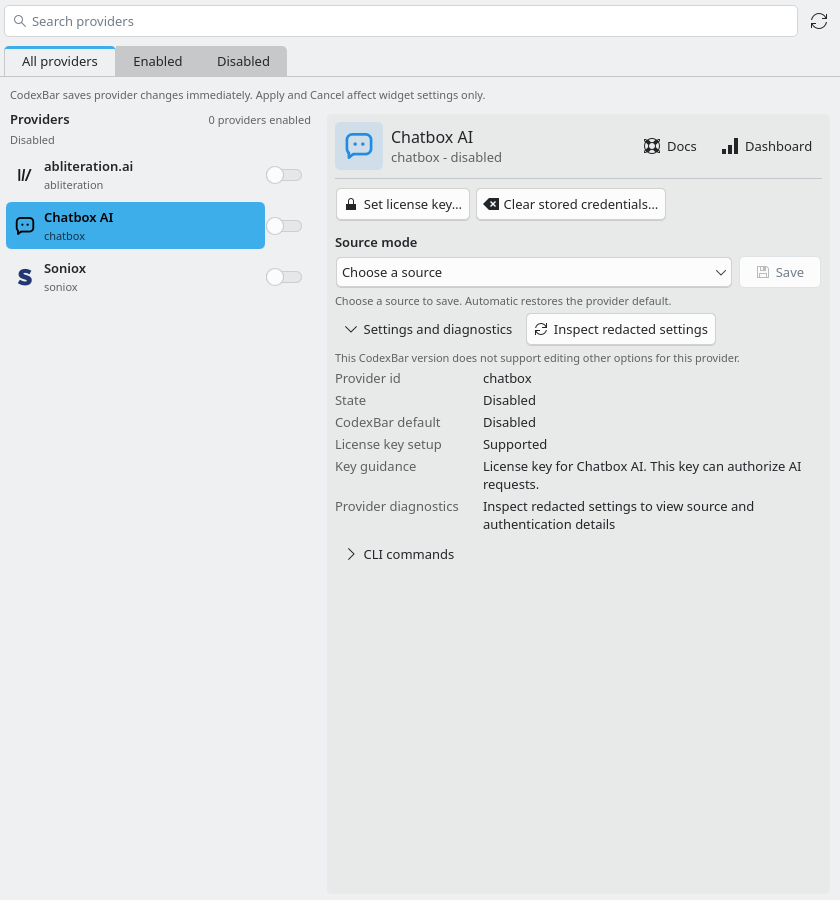
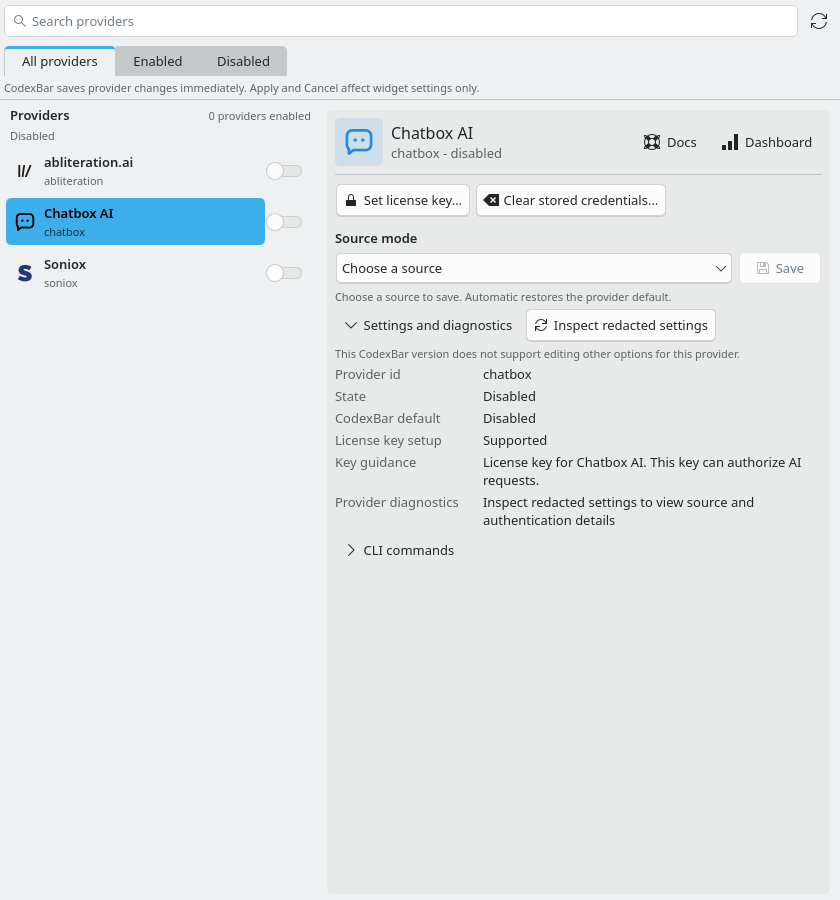
fix(settings): align expanded provider panes

diff --git a/contents/ui/configProviders.qml b/contents/ui/configProviders.qml
@@ -108,10 +108,12 @@ KCM.SimpleKCM {
     readonly property var visibleDisabledProviders: providerSettingsGroups.disabled
     readonly property int enabledCount: ProviderList.filteredProviders(providers, "", "enabled").length
     readonly property var selectedProvider: providerByID(selectedProviderID)
-    // URL rows open a page; every other row runs a provider command.
+    // Widget-owned URL rows sit in the header toolbar. Descriptor actions,
+    // including open* ones, keep their plain-text button: their titles are
+    // untrusted CLI text and the toolbar's button/menu paths render rich text.
     readonly property var selectedProviderActionRows: providerActionRows(selectedProvider)
-    readonly property var selectedProviderLinkRows: selectedProviderActionRows.filter(function(row) { return !!row.url })
-    readonly property var selectedProviderCommandRows: selectedProviderActionRows.filter(function(row) { return !row.url })
+    readonly property var selectedProviderLinkRows: selectedProviderActionRows.filter(function(row) { return providerLinkKind(row) !== "" })
+    readonly property var selectedProviderCommandRows: selectedProviderActionRows.filter(function(row) { return providerLinkKind(row) === "" })
     readonly property var selectedProviderSourceModes: ProviderSource.availableModes(
         selectedProvider ? selectedProvider.authentication : null)
 
@@ -985,10 +987,14 @@ KCM.SimpleKCM {
         return rows
     }
 
-    function providerLinkRow(action) {
+    function providerLinkKind(row) {
+        return row && row.url ? row.action : ""
+    }
+
+    function providerLinkRow(kind) {
         var rows = selectedProviderLinkRows
         for (var i = 0; i < rows.length; i++) {
-            if (rows[i].action === action)
+            if (providerLinkKind(rows[i]) === kind)
                 return rows[i]
         }
         return null
@@ -1569,6 +1575,19 @@ KCM.SimpleKCM {
             }
         }
 
+        Components.PlainControlsLabel {
+            objectName: "providerImmediateChangesMessage"
+            Layout.fillWidth: true
+            Layout.leftMargin: Kirigami.Units.smallSpacing
+            Layout.rightMargin: Kirigami.Units.smallSpacing
+            Layout.bottomMargin: Kirigami.Units.smallSpacing
+            font: Kirigami.Theme.smallFont
+            opacity: page.secondaryTextOpacity
+            wrapMode: Text.WordWrap
+            visible: page.providers.length > 0
+            text: i18n("CodexBar saves provider changes immediately. Apply and Cancel affect widget settings only.")
+        }
+
         Components.PlainInlineMessage {
             id: providerErrorMessage
 
@@ -1617,26 +1636,16 @@ KCM.SimpleKCM {
         width: parent.width
         spacing: Kirigami.Units.smallSpacing
 
-        Components.PlainControlsLabel {
-            objectName: "providerImmediateChangesMessage"
-            Layout.fillWidth: true
-            Layout.margins: Kirigami.Units.smallSpacing
-            font: Kirigami.Theme.smallFont
-            opacity: page.secondaryTextOpacity
-            wrapMode: Text.WordWrap
-            visible: page.providers.length > 0
-            text: i18n("CodexBar saves provider changes immediately. Apply and Cancel affect widget settings only.")
-        }
-
         GridLayout {
             id: providerPanes
             Layout.fillWidth: true
             columns: page.width >= Kirigami.Units.gridUnit * 42 ? 2 : 1
             // Side by side, both panes fill the visible page so the list uses
-            // the window height instead of leaving empty space below it.
+            // the window height instead of leaving empty space below it. The
+            // panes are the first content item, so only the viewport is read.
             readonly property real paneHeight: columns === 2
                 ? Math.max(Kirigami.Units.gridUnit * 20,
-                    page.flickable.height - y - page.topPadding - page.bottomPadding)
+                    page.flickable.height - page.topPadding - page.bottomPadding)
                 : Kirigami.Units.gridUnit * 20
             columnSpacing: Kirigami.Units.largeSpacing
             rowSpacing: Kirigami.Units.largeSpacing
@@ -1648,7 +1657,12 @@ KCM.SimpleKCM {
                 Layout.alignment: Qt.AlignTop
                 Layout.preferredWidth: Kirigami.Units.gridUnit * 16
                 Layout.maximumWidth: providerPanes.columns === 2 ? Kirigami.Units.gridUnit * 18 : Infinity
-                Layout.preferredHeight: providerPanes.paneHeight
+                // Expanded details may outgrow the viewport; the list follows
+                // them so both panes still end together while the page scrolls.
+                Layout.preferredHeight: providerPanes.columns === 2 && selectedProviderSurface.visible
+                    ? Math.max(providerPanes.paneHeight,
+                        selectedProviderSurface.implicitHeight + Kirigami.Units.smallSpacing)
+                    : providerPanes.paneHeight
                 contentWidth: availableWidth
                 clip: true
 
@@ -1854,6 +1868,7 @@ KCM.SimpleKCM {
                                 Kirigami.Action {
                                     readonly property var row: page.providerLinkRow("docs")
                                     text: row ? row.title : ""
+                                    enabled: row !== null && row.enabled
                                     icon.name: "help-contents"
                                     visible: row !== null
                                     onTriggered: page.performProviderAction(row)
@@ -1861,6 +1876,7 @@ KCM.SimpleKCM {
                                 Kirigami.Action {
                                     readonly property var row: page.providerLinkRow("dashboard")
                                     text: row ? row.title : ""
+                                    enabled: row !== null && row.enabled
                                     icon.name: "view-statistics"
                                     visible: row !== null
                                     onTriggered: page.performProviderAction(row)
@@ -1868,6 +1884,7 @@ KCM.SimpleKCM {
                                 Kirigami.Action {
                                     readonly property var row: page.providerLinkRow("login")
                                     text: row ? row.title : ""
+                                    enabled: row !== null && row.enabled
                                     icon.name: "internet-services"
                                     visible: row !== null
                                     onTriggered: page.performProviderAction(row)

diff --git a/tests/tst_provider_filters.qml b/tests/tst_provider_filters.qml
@@ -739,6 +739,32 @@ TestCase {
         }
     }
 
+    function test_providerPaneBottomsAlignWithExpandedDetails() {
+        var page = createProvidersPage();
+        if (!page) return;
+        page.providers = [{provider: "codex", displayName: "Codex", enabled: true}];
+        page.selectedProviderID = "codex";
+        page.width = 840;
+        page.height = 300;
+        settingsToggle(page).expanded = true;
+        wait(50);
+        var list = findChild(page, "providerListScroll");
+        var detail = findChild(page, "selectedProviderSurface");
+        verify(detail.height > page.flickable.height);
+        fuzzyCompare(list.mapToItem(page, 0, list.height).y, detail.mapToItem(page, 0, detail.height).y, 1);
+    }
+
+    function test_descriptorActionsStayPlainTextCommands() {
+        var page = createProvidersPage();
+        if (!page) return;
+        page.providers = [{provider: "codex", displayName: "Codex", enabled: true, descriptor: {actions: [
+            {id: "openDashboard", title: "Usage dashboard"}, {id: "refreshSession", title: "Refresh session"}]}}];
+        page.selectedProviderID = "codex";
+        compare(page.providerLinkRow("dashboard"), null);
+        var commands = page.selectedProviderCommandRows.map(function(row) { return row.title; });
+        verify(commands.indexOf("Refresh session") >= 0 && commands.indexOf("Usage dashboard") >= 0);
+    }
+
     function test_inspectionValuesAlignAndStackWhenNarrow() {
         var page = createProvidersPage();
         if (!page) return;
